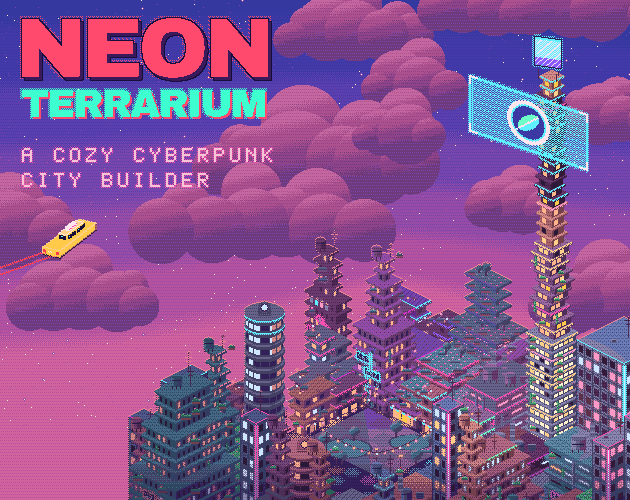
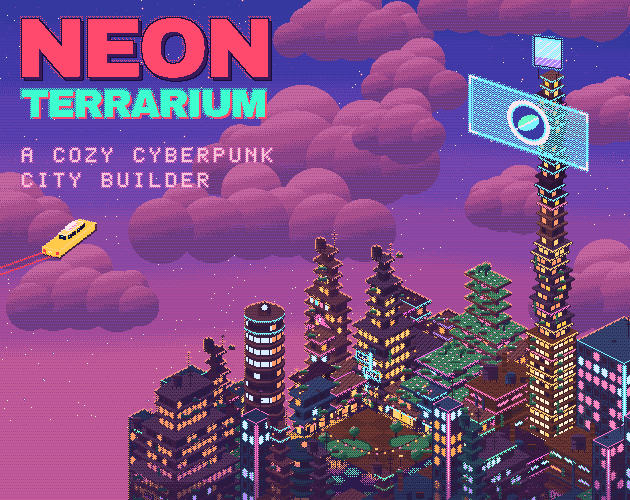
Cover art: dark warm city with glowing lights
Separate the city from the sky: deeper warm wall palette (dusk rose, plum,
peach clay, terracotta, with periwinkle and teal as accents), deep plum and
indigo shadow sides, haze only on the farthest back row. Lights pop: brighter
amber, honey, peach, pink and cool windows lit in whole bands, three-ring
dithered halos, brighter neon, warm pools on the streets and plaza, and a pink
rim with a warm last-light edge on the skyline. PNG and GIFs rebuilt.

Claude-Session: https://claude.ai/code/session_01F4MPX99podf2NwUC3T9owt

diff --git a/cover-art/cover.px.js b/cover-art/cover.px.js
@@ -6,26 +6,26 @@ const W = 630, H = 500, FRAMES = 48
 
 const PAL = {
   // sky, blue-violet at the top -> magenta -> pink near the city
-  0: "#34389f", 1: "#4439a8", 2: "#5c3fae", 3: "#7646ac", 4: "#964ca6", 5: "#b4529f", 6: "#d0629d",
+  0: "#34389f", 1: "#4439a8", 2: "#5c3fae", 3: "#7646ac", 4: "#8e48a2", 5: "#a84c9a", 6: "#c25a98",
   // clouds: lit top, mauve, plum, shadow
   a: "#c4669f", b: "#ac518d", c: "#8f4388", d: "#6f3a7c",
   // walls as (top / lit side / shadow side), every one built from the sky: dusk rose, mauve, lavender grey,
   // periwinkle, deep plum, peach clay (warm accent), soft violet-teal (cool accent)
-  R: "#b46a86", r: "#8a4c6a", u: "#5c3049",
-  P: "#9a6aa0", p: "#74497c", q: "#4c2e56",
-  S: "#8a86b0", s: "#66628a", t: "#444064",
-  K: "#6c7cb8", k: "#4e5a8e", l: "#343c64",
-  D: "#6a3a6e", E: "#4c2852", e: "#321a38",
-  T: "#d48a86", U: "#a8646a", m: "#74404c",
-  f: "#5f8aa8", i: "#456886", j: "#2f4862",
+  R: "#62344e", r: "#4a243a", u: "#321c42",
+  P: "#54345e", p: "#36203f", q: "#2e1a3c",
+  S: "#6e3632", s: "#502a2a", t: "#3a1e2c",
+  K: "#364270", k: "#28325a", l: "#261e44",
+  D: "#3e1e46", E: "#301836", e: "#26142e",
+  T: "#7a4650", U: "#582c38", m: "#321c42",
+  f: "#2e485e", i: "#22364a", j: "#221e40",
   // homes at dusk: peach, honey, soft pink, cool white-blue, shop gold; unlit deep plum
-  y: "#ffb48a", h: "#ffd08a", z: "#ff9ac8", v: "#cfe6ff", Y: "#ffc94a", w: "#2a1838",
+  y: "#ff9a6a", h: "#ffd27a", z: "#ff8ac0", v: "#d8ecff", Y: "#ffc94a", w: "#2a1838", L: "#ffb050",
   // neon: pink, magenta, cyan, violet, mint
-  H: "#ff4fb0", M: "#e02fd0", n: "#5ef0ff", V: "#8a5bff", N: "#6dffc8",
+  H: "#ff72c8", M: "#ff64f4", n: "#7af4ff", V: "#b088ff", N: "#6dffc8",
   // dusk greens: lit, mid, shade
-  g: "#78c88a", o: "#4a9a72", O: "#2c5e58",
+  g: "#4e9066", o: "#2f6250", O: "#20423f",
   // streets and shadows, the dusk violet of the haze, the pink rim light
-  A: "#2a1a48", B: "#34205a", Q: "#61298a", Z: "#f08592",
+  A: "#2a1a48", B: "#2e1c50", Q: "#61298a", Z: "#f08592",
   // title: coral, purple, mint, ink, pale pink
   C: "#ff4a6e", X: "#3b1a5c", G: "#3dffcf", I: "#170f3a", J: "#f7c6d6",
   // star cream, pale pink-white, red lights
@@ -86,7 +86,7 @@ const paintPts = (pts, sink) => {
 // ================================================================ sky
 const SKYV = (x, y) => {
   let v = 6.2 * Math.pow(clamp(y / 400, 0, 1), 0.95)
-  v += 1.5 * Math.exp(-Math.hypot((x - 390) / 1.4, (y - 320) * 0.9) / 120)      // a pinker glow right behind the city
+  v += 0.7 * Math.exp(-Math.hypot((x - 390) / 1.4, (y - 320) * 0.9) / 120)      // a pinker glow right behind the city
   v -= 0.5 * clamp((x - 330) / 300, 0, 1) * clamp(1 - y / 260, 0, 1)      // bluer at the top right
   return clamp(v, 0, 6)
 }
@@ -168,13 +168,10 @@ const nearestKey = (r, g, b) => {
   for (const k of SNAP) { const c = KEYRGB[k]; const d = (c[0] - r) ** 2 + (c[1] - g) ** 2 + (c[2] - b) ** 2; if (d < bd) { bd = d; best = k } }
   return best
 }
-const levelFor = (yBase) => {
-  const f = yBase >= 500 ? 0 : yBase >= 470 ? 0.3 * (500 - yBase) / 30 : 0.3 + 0.25 * clamp((470 - yBase) / 140, 0, 1)
-  return Math.round(f * 20)
-}
-const darkFor = (cx, yBase) => Math.round(clamp((380 - cx) / 170, 0, 1) * clamp((yBase - 350) / 100, 0, 1) * 0.42 * 20)
+const levelFor = (yBase) => (yBase >= 400 ? 0 : Math.round(20 * (0.15 + 0.1 * clamp((400 - yBase) / 80, 0, 1))))
+const darkFor = (cx, yBase) => Math.round(clamp((380 - cx) / 170, 0, 1) * clamp((yBase - 350) / 100, 0, 1) * 0.55 * 20)
 const tintCache = new Map()
-const LIGHTKEYS = new Set("yhzvYnHMVN")
+const LIGHTKEYS = new Set("yhzvYnHMVNL")
 const tintKey = (k, hz, dk, wm) => {
   if (LIGHTKEYS.has(k)) { hz = Math.round(hz * 0.3); dk = Math.round(dk * 0.4); wm = 0 }
   if (!hz && !dk && !wm) return k
@@ -207,7 +204,7 @@ const grounded = (x, y, k) => {
 const FK = (x, y, k) => { const i = y * W + x; const kk = tintKey(k, DEPTH[i], DARK[i], WARM[i]); return CITY[i] ? grounded(x, y, kk) : kk }
 
 // ---------------------------------------------------------------- glow
-const EMIT = new Set("yhzvYVNHMn")
+const EMIT = new Set("yhzvYVNHMnL")
 const glowAround = (pts, k, reach = 2, sink) => {
   const set = new Set(pts.map(([x, y]) => x + y * W))
   for (const [x, y] of pts) for (let dy = -reach; dy <= reach; dy++) for (let dx = -reach; dx <= reach; dx++) {
@@ -268,15 +265,16 @@ const wallXY = (side, m, u, r) => side === "L"
 
 // ---------------------------------------------------------------- colours of the buildings
 const FAMS = {
-  rose: { top: "R", L: "r", R: "u" }, mauve: { top: "P", L: "p", R: "q" }, lav: { top: "S", L: "s", R: "t" },
+  rose: { top: "R", L: "r", R: "u" }, mauve: { top: "P", L: "p", R: "q" }, terra: { top: "S", L: "s", R: "t" },
   peri: { top: "K", L: "k", R: "l" }, plum: { top: "D", L: "E", R: "e" }, peach: { top: "T", L: "U", R: "m" }, teal: { top: "f", L: "i", R: "j" },
 }
-const FAMMAIN = ["rose", "mauve", "lav", "peri", "plum"]
+const FAMMAIN = ["rose", "plum", "peach", "terra", "rose", "plum", "terra", "peach", "mauve"]
 const ACCENTS = ["H", "H", "H", "H", "M", "M", "n", "n", "n", "V", "N"]
-const WCOLS = ["h", "h", "h", "y", "y", "z", "z", "v", "v"]
+const WCOLS = ["L", "L", "h", "h", "y", "y", "z", "z", "v", "v"]      // six in ten warm
 const WALLSET = new Set("RruPpqSstKklDEeTUmfijAB")
-const HALO = { h: "T", y: "T", z: "R", v: "S", Y: "T" }
-const HALO2 = { h: "U", y: "U", z: "r", v: "s", Y: "U" }
+const HALO = { L: "y", h: "L", y: "y", z: "H", v: "n", Y: "L" }
+const HALO2 = { L: "T", h: "T", y: "T", z: "R", v: "K", Y: "T" }
+const HALO3 = { L: "U", h: "U", y: "U", z: "r", v: "k", Y: "U" }
 
 // ---------------------------------------------------------------- foliage, dusk greens
 const canopy = (cx, cy, r, seed) => {
@@ -307,14 +305,14 @@ const vine = (x, y, len, seed) => {
   }
 }
 const stringLights = (x1, y1, x2, y2, sag, seed) => {
-  const dx = x2 - x1, n = Math.max(2, Math.floor(Math.abs(dx) / 7)), cols = ["h", "z", "y", "v"]
+  const dx = x2 - x1, n = Math.max(2, Math.floor(Math.abs(dx) / 7)), cols = ["h", "L", "y", "z"]
   for (let x = Math.min(x1, x2); x <= Math.max(x1, x2); x++) { const t = (x - x1) / dx; put(x, Math.round(y1 + (y2 - y1) * t + sag * (1 - Math.pow(2 * t - 1, 2))), "E") }
   const pts = []
   for (let i = 0; i <= n; i++) {
     const t = i / n, x = Math.round(x1 + dx * t), y = Math.round(y1 + (y2 - y1) * t + sag * (1 - Math.pow(2 * t - 1, 2))) + 1
     rectK(x, y, 2, 2, cols[(i + seed) % cols.length]); pts.push([x, y], [x + 1, y], [x, y + 1], [x + 1, y + 1])
   }
-  glowAround(pts, "T", 2)
+  glowAround(pts, "T", 3)
 }
 const GROUNDSET = new Set("AB")
 const pool = (cx, cy, rx, ry, k, dens) => {
@@ -344,7 +342,7 @@ const TANKS = (x, y, rx, h, fam) => {
 const acUnit = (side, m, u, r) => {
   for (let i = 0; i < 7; i++) for (let j = 0; j < 5; j++) {
     const [x, y] = wallXY(side, m, u + i, r + j)
-    put(x, y, j === 0 ? "S" : (i > 1 && i < 5 && j > 1) ? "t" : i === 6 ? "s" : "S")
+    put(x, y, j === 0 ? "K" : (i > 1 && i < 5 && j > 1) ? "l" : i === 6 ? "k" : "K")
   }
 }
 const antenna = (x, y, L, id) => {
@@ -429,17 +427,25 @@ const haloPass = () => {
       if (!WALLSET.has(get(nx, ny)) || ((nx + ny) & 1)) continue
       ring.push([nx, ny, hk, get(nx, ny)])
     }
-    // a second, fainter ring a little further out
+    // a second and a third, fainter ring further out
     const R1 = new Set(ring.map((q) => q[0] + q[1] * W))
-    const hk2 = HALO2[rec.on] || "U", ring2 = []
+    const hk2 = HALO2[rec.on] || "U", hk3 = HALO3[rec.on] || "m", ring2 = [], ring3 = []
+    const R2 = new Set()
     for (const q of ring) for (const [dx, dy] of [[1, 0], [-1, 0], [0, 1], [0, -1], [1, 1], [-1, -1], [1, -1], [-1, 1]]) {
       const nx = q[0] + dx, ny = q[1] + dy, ni = nx + ny * W
       if (!inb(nx, ny) || P.has(ni) || R1.has(ni) || seen.has(ni)) continue
-      seen.add(ni)
+      seen.add(ni); R2.add(ni)
       if (!WALLSET.has(get(nx, ny)) || (nx & 1) || (ny & 1)) continue
       ring2.push([nx, ny, hk2, get(nx, ny)])
     }
-    for (const q of [...ring, ...ring2]) { rec.pts.push(q); if (rec.lit) put(q[0], q[1], q[2]) }
+    for (const q of ring2) for (const [dx, dy] of [[2, 0], [-2, 0], [0, 2], [0, -2]]) {
+      const nx = q[0] + dx, ny = q[1] + dy, ni = nx + ny * W
+      if (!inb(nx, ny) || P.has(ni) || R1.has(ni) || seen.has(ni)) continue
+      seen.add(ni)
+      if (!WALLSET.has(get(nx, ny)) || ((nx + 2 * ny) % 5)) continue
+      ring3.push([nx, ny, hk3, get(nx, ny)])
+    }
+    for (const q of [...ring, ...ring2, ...ring3]) { rec.pts.push(q); if (rec.lit) put(q[0], q[1], q[2]) }
   }
   curWins = []
 }
@@ -449,7 +455,7 @@ const newWin = (lit, on, halo = true) => { const rec = { pts: [], lit, on, halo 
 function stack(o) {
   const { a, b, w, d, n, fh, fam, id } = o
   const plate = o.plate ?? 3, ins = o.ins ?? 0.15
-  const pw = o.pw ?? 4, pier = o.pier ?? 3, per = pw + pier
+  const pw = o.pw ?? 4, pier = o.pier ?? 2, per = pw + pier
   const wcol = o.wcol ?? "h"
   let z = o.z0 || 0
   const post = []
@@ -459,7 +465,7 @@ function stack(o) {
     const last = f === n - 1
     const fhf = o.fhFor ? o.fhFor(f) : fh
     const hb = fhf - plate
-    const wh = o.wh ?? Math.min(5, hb - 3), wy0 = o.wy0 ?? 2
+    const wh = o.wh ?? Math.min(6, hb - 3), wy0 = o.wy0 ?? 2
     const dx = o.twist ? Math.round(o.twist * Math.sin(f * 1.37 + id)) : 0
     const grow = o.over && f >= n * 0.45 ? o.over : 0
     const A = a + dx / (2 * ISO) - grow, B = b - dx / (2 * ISO) - grow, Wd = w + 2 * grow, Dd = d + 2 * grow
@@ -478,8 +484,8 @@ function stack(o) {
       let rec = panes.get(pk)
       if (!rec) {
         const q = ih(id * 131 + col, f * 7 + (side === "L" ? 1 : 2), 17), t = ih(id + col * 3, f, 5)
-        const lit = o.bright ? (fq < (o.litP ?? 0.85) && q < 0.92) : (col % 5 !== 4 && q < 0.5 * ff)
-        const on = o.bright ? (o.glass === "white" ? (t < 0.3 ? "h" : "F") : t < 0.12 ? "Y" : t < 0.55 ? "h" : "y") : (t < 0.84 ? wcol : ["h", "y", "z", "v"][Math.floor(t * 40) % 4])
+        const lit = o.bright ? (fq < (o.litP ?? 0.85) && q < 0.92) : fq < 0.2 ? q < 0.1 : fq < 0.68 ? q < 0.94 : (col % 5 !== 4 && q < 0.55)      // dark floors, glowing bands, mixed floors
+        const on = o.bright ? (o.glass === "white" ? (t < 0.3 ? "h" : "F") : t < 0.12 ? "Y" : t < 0.55 ? "h" : "y") : (t < 0.86 ? wcol : ["L", "h", "y", "v"][Math.floor(t * 40) % 4])
         rec = newWin(lit, on, !o.bright)
         panes.set(pk, rec)
       }
@@ -559,7 +565,7 @@ function cylinder(o) {
           if (mull) k = fam.R
           else {
             const q = ih(id * 131 + col, f * 7, 17)
-            k = col % 4 !== 3 && q < 0.5 * ff ? (t > 0.45 ? "y" : wcol) : "w"
+            k = (fq < 0.28 ? q < 0.1 : fq < 0.6 ? q < 0.93 : (col % 4 !== 3 && q < 0.5)) ? (t > 0.45 ? "y" : wcol) : "w"
           }
         }
         put(x, y, k)
@@ -674,11 +680,11 @@ for (const bd of blds) bd.h = heightOf(bd)
 // ---------------------------------------------------------------- what each type puts on its walls
 const pickFam = (bd, i) => {
   const r = ih(bd.id, 2, 3)
-  if (r < 0.16) return "peach"
-  if (r < 0.28) return "teal"
   let k = Math.floor(ih(bd.id, 12, 3) * FAMMAIN.length)
   if (bd.type === "glass") return "peri"
-  if (bd.type === "industrial") return ["plum", "peri", "lav"][k % 3]
+  if (r < 0.09) return "teal"
+  if (r < 0.17) return "peri"
+  if (bd.type === "industrial") return ["plum", "plum", "mauve", "terra"][k % 4]
   return FAMMAIN[(k + i) % FAMMAIN.length]
 }
 const wallBoards = (bd, m, n, accent, wk, kinds, base = 8) => {
@@ -707,7 +713,7 @@ const drawBuilding = (bd) => {
   const accent = ACCENTS[Math.floor(ih(id, 5, 3) * ACCENTS.length)]
   const trims = [accent, accent]
   const wcol = WCOLS[Math.floor(ih(id, 6, 3) * WCOLS.length)]
-  const trimB = ih(id, 52, 3) < 0.35
+  const trimB = ih(id, 52, 3) < 0.45
   const wk = [fam.L, fam.R, "A"]
   const type = bd.type
   const H0 = bd.h
@@ -720,7 +726,7 @@ const drawBuilding = (bd) => {
     for (let k = 0; k < 3; k++) {
       const tw = Math.min(0.4 * k, (w - 0.7) / 2), td = Math.min(0.4 * k, (d - 0.7) / 2)
       const ma = a0 + tw, mb = b0 + td, mw = w - 2 * tw, md = d - 2 * td
-      st = stack({ a: ma, b: mb, w: mw, d: md, z0: z, n: ns[k], fh, fam, id: id * 3 + k, trims, pw: 2, pier: 3, wcol, trimB: trimB && k === 2, plantP: 0.34, vineP: 0.2 })
+      st = stack({ a: ma, b: mb, w: mw, d: md, z0: z, n: ns[k], fh, fam, id: id * 3 + k, trims, pw: 3, pier: 2, wcol, trimB: trimB && k === 2, plantP: 0.34, vineP: 0.2 })
       mods.push({ a: ma, b: mb, w: mw, d: md, z, h: ns[k] * fh, n: ns[k], fh })
       z = st.z
     }
@@ -753,7 +759,7 @@ const drawBuilding = (bd) => {
         let rec = panes.get(pk)
         if (!rec) {
           const q = ih(id * 131 + col, f * 7 + (side === "L" ? 1 : 2), 17), t = ih(id + col, f, 5)
-          rec = newWin(q < 0.5 && col % 4 !== 3, t < 0.86 ? wcol : "v", true)
+          rec = newWin(ih(id, f, 3) < 0.28 ? q < 0.1 : ih(id, f, 3) < 0.6 ? q < 0.93 : (q < 0.5 && col % 4 !== 3), t < 0.86 ? wcol : "v", true)
           panes.set(pk, rec)
         }
         rec.pts.push([x, y, rec.on, "w"])
@@ -776,7 +782,7 @@ const drawBuilding = (bd) => {
     mods.push(top)
     const [rx, ry] = [PXs(a0 + w / 2, b0 + d / 2), PYs(a0 + w / 2, b0 + d / 2) - h]
     antenna(rx + 4, ry - 2, 16 + Math.floor(ih(id, 100, 6) * 10), id)
-    spr(rx - 10, ry + 2, ["SSSSSs", "SttttS", "SttttS", "ssssss"])
+    spr(rx - 10, ry + 2, ["KKKKKk", "KllllK", "KllllK", "kkkkkk"])
     if (ih(id, 102, 6) < 0.5) hedge(rx + 12, ry + 6, 8, id)
   } else if (type === "pod") {
     const fh = 12, n = Math.max(5, Math.round(H0 / fh))
@@ -838,7 +844,7 @@ const drawBuilding = (bd) => {
     wallBoards(bd, m0, 2, accent, wk, ["board", "icon"], 22)
     // warm shop light pooling on the street in front
     const [px, py] = [PXs(a0, b0 + d) + Math.round(ISO * w * 0.5), PYs(a0, b0 + d) + 3]
-    pool(px, py + 3, 22, 7, "y", 0.7)
+    pool(px, py + 3, 30, 9, "L", 0.85); pool(px, py + 3, 20, 6, "y", 0.8)
     const rb = st.roofBox
     const [x1, y1] = rb.pt(a0 + 0.2, b0 + d - 0.2), [x2, y2] = rb.pt(a0 + w - 0.2, b0 + d - 0.2)
     stringLights(x1 + 2, y1 - 8, x2 - 2, y2 - 8, 4, id)
@@ -860,7 +866,7 @@ const drawBuilding = (bd) => {
     const rb = st.roofBox
     const [cx2, cy2] = rb.pt(a0 + w / 2, b0 + d / 2)
     wallBoards(bd, m0, 1, accent, wk, ["board", "strip"], 16)
-    TANKS(cx2 - 14, cy2 + 2, 7, 12, FAMS.lav)
+    TANKS(cx2 - 14, cy2 + 2, 7, 12, FAMS.mauve)
     TANKS(cx2 + 6, cy2 + 6, 5, 9, FAMS.peri)
     rectK(cx2 + 16, cy2 - 4, 8, 6, "t"); hlineK(cx2 + 16, cy2 - 4, 8, "S"); for (let i = 0; i < 3; i++) hlineK(cx2 + 17, cy2 - 2 + i * 2, 6, "l")
     for (let j = 0; j < 22; j++) rectK(cx2 - 2, cy2 - 6 - j, 5, 1, j % 6 < 2 ? "S" : "s")
@@ -880,7 +886,7 @@ const drawTower = () => {
   // a stepped, wide base with plants
   stack({ a: 90, b: 21, w: 4, d: 4, n: 3, fh: 8, plate: 2, ins: 0.22, fam: F.rose, id: 9901, bright: true, trimAll: true, trims: ["H", "n"], pw: 6, pier: 1, wh: 4, wy0: 1, litP: 0.8, plantP: 0.7 })
   // the white-lit body, windows in pale rows
-  stack({ a: 90.3, b: 21.3, w: 3.4, d: 3.4, z0: 24, n: 13, fh: 8, plate: 2, ins: 0.22, fam: F.lav, id: 9902, bright: true, trimAll: true, trims: ["h", "z"], pw: 4, pier: 1, wh: 4, wy0: 1, litP: 0.95, plantP: 0.55, glass: "white" })
+  stack({ a: 90.3, b: 21.3, w: 3.4, d: 3.4, z0: 24, n: 13, fh: 8, plate: 2, ins: 0.22, fam: F.terra, id: 9902, bright: true, trimAll: true, trims: ["h", "z"], pw: 4, pier: 1, wh: 4, wy0: 1, litP: 0.95, plantP: 0.55, glass: "white" })
   // a twisting stack of thick plates
   stack({ a: 90.75, b: 21.75, w: 2.5, d: 2.5, z0: 128, n: 10, fh: 9, plate: 2, ins: 0.22, fam: F.mauve, id: 9903, bright: true, trimAll: true, trims: ["h", "H"], pw: 4, pier: 1, wh: 5, wy0: 1, litP: 0.7, plantP: 0.3, twist: 3 })
   // a warm peach block with a lit crown line
@@ -929,7 +935,7 @@ for (let a = 12; a <= 70; a++) for (let b = 0; b <= 40; b++) {
   curLevel = levelFor(cy); curDark = darkFor(cx, cy)
   if (q < 0.18) pool(cx, cy, 12, 5, "H", 0.5)
   else if (q < 0.36) pool(cx, cy, 12, 5, "n", 0.5)
-  else if (q < 0.46) pool(cx, cy, 10, 4, "y", 0.5)
+  else if (q < 0.62) { pool(cx, cy, 14, 6, "L", 0.8); pool(cx, cy, 8, 3, "y", 0.7) }
 }
 curLevel = 0
 const props = []
@@ -958,7 +964,7 @@ for (const e of order) {
     hedge(pcx - 58, pcy + 8, 14, 3); hedge(pcx + 44, pcy + 8, 14, 5)
     for (const [tx, ty, r] of [[pcx - 52, pcy - 2, 6], [pcx - 22, pcy - 10, 5], [pcx + 20, pcy - 14, 6], [pcx + 54, pcy - 4, 5], [pcx - 34, pcy + 14, 5], [pcx + 40, pcy + 14, 6]]) tree(tx, ty + r + 2, r, tx + ty)
     const posts = [[pcx - 62, pcy], [pcx, pcy - 30], [pcx + 62, pcy], [pcx, pcy + 30]]
-    for (const [x, y] of posts) { vlineK(x, y - 24, 24, "E"); rectK(x - 1, y - 26, 3, 2, "h"); pool(x, y + 2, 12, 5, "y", 0.5) }
+    for (const [x, y] of posts) { vlineK(x, y - 24, 24, "E"); rectK(x - 1, y - 26, 3, 2, "h"); pool(x, y + 2, 16, 6, "L", 0.8) }
     for (let i = 0; i < 4; i++) { const [x1, y1] = posts[i], [x2, y2] = posts[(i + 1) % 4]; stringLights(x1, y1 - 22, x2, y2 - 22, 6, i) }
     curLevel = 0; curDark = 0
   } else drawBuilding(e.b)
@@ -981,15 +987,20 @@ for (let y = 0; y < H; y++) for (let x = 0; x < W; x++) {
   const i = y * W + x
   if (!CITY[i] || TOWER_MASK[i]) continue
   const d = Math.hypot((x - 552) / 1.25, y - 410)
-  WARM[i] = Math.round(20 * 0.26 * Math.pow(clamp(1 - d / 120, 0, 1), 1.2))
+  WARM[i] = Math.round(20 * 0.11 * Math.pow(clamp(1 - d / 120, 0, 1), 1.2))
 }
 recordCity = false
 for (let y = 0; y < H; y++) for (let x = 0; x < W; x++) { const i = y * W + x; if (CITY[i]) fb[i] = IDX[FK(x, y, KEYS[fb[i]])] }
-// a 1 px soft pink rim along the skyline against the clouds, and along the left edge
-for (let y = 1; y < H; y++) for (let x = 1; x < W; x++) {
+// a 1 px pink rim along the skyline against the clouds, a warm edge under it, and the last dusk light on the left sides
+const LITK = new Set("LhzvyYnHMVN")
+for (let y = 2; y < H; y++) for (let x = 1; x < W; x++) {
   const i = y * W + x
   if (!CITY[i] || TOWER_MASK[i]) continue
-  if (!CITY[i - W] || (!CITY[i - 1] && ((x + y) & 1) === 0)) fb[i] = IDX.Z
+  const here = KEYS[fb[i]]
+  if (!CITY[i - W]) fb[i] = IDX.Z
+  else if (!CITY[i - 2 * W] && bay(x, y) < 0.6 && !LITK.has(here)) fb[i] = IDX.y
+  else if (!CITY[i - 1] && bay(x, y) < 0.7 && !LITK.has(here)) fb[i] = IDX.y
+  else if (!CITY[i - 2] && bay(x, y) < 0.3 && !LITK.has(here)) fb[i] = IDX.T
 }
 
 // ================================================================ title: the letters are Archivo Black outlines
